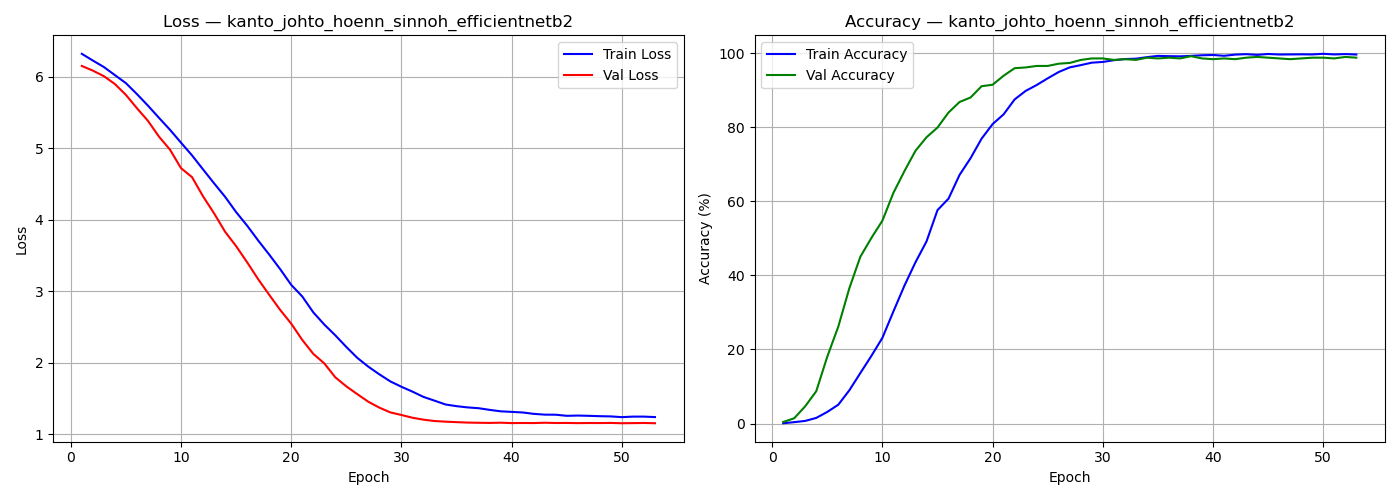
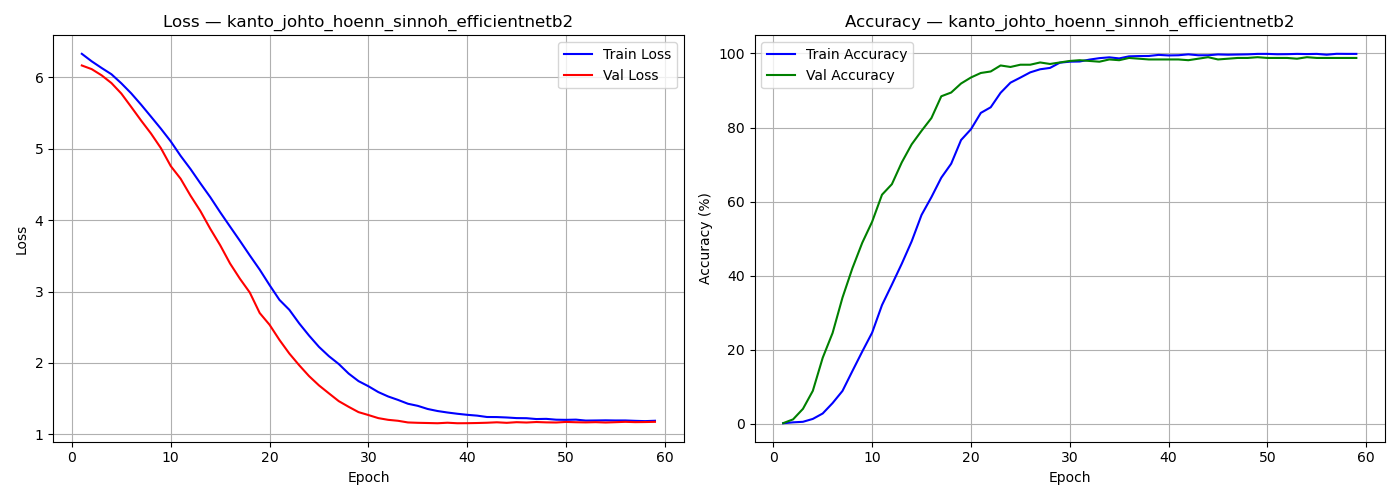
Updated version

diff --git a/models/efficientnetb2_4reg.py b/models/efficientnetb2_4reg.py
@@ -11,7 +11,7 @@ class PokemonClassifierEfficientNetB2_4reg(nn.Module):
         self. model = efficientnet_b2(weights=weights)
 
         in_features = self.model.classifier[1].in_features
-
+        """
         self.model.classifier[1] = nn.Sequential(
             nn.Dropout(0.3),
             nn.Linear(in_features, 1024),
@@ -23,6 +23,19 @@ class PokemonClassifierEfficientNetB2_4reg(nn.Module):
             nn.ReLU(),
             nn.Dropout(0.35),
             nn.Linear(512, num_classes),
+        )
+        """
+        self.model.classifier[1] = nn.Sequential(
+            nn.Dropout(0.3),
+            nn.Linear(in_features, 512),
+            nn.BatchNorm1d(512),
+            nn.ReLU(),
+            nn.Dropout(0.4),
+            nn.Linear(512, 256),
+            nn.BatchNorm1d(256),
+            nn.ReLU(),
+            nn.Dropout(0.35),
+            nn.Linear(256, num_classes),
         )
     # Freeze all layers except the classifier
     def freeze_backbone(self):
